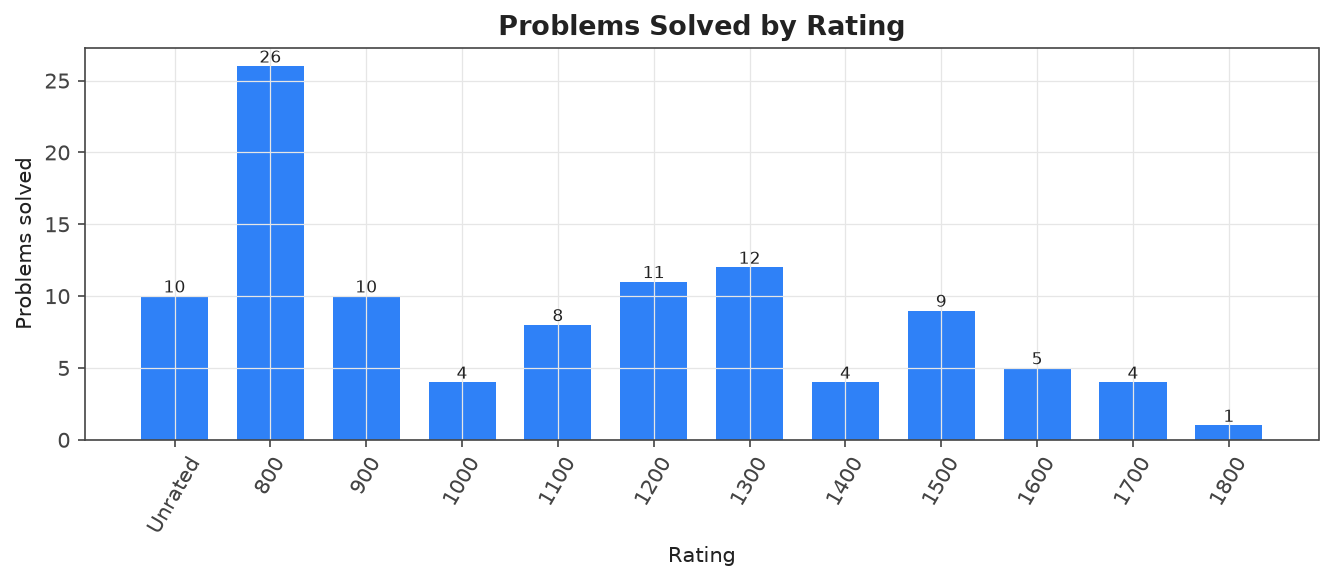
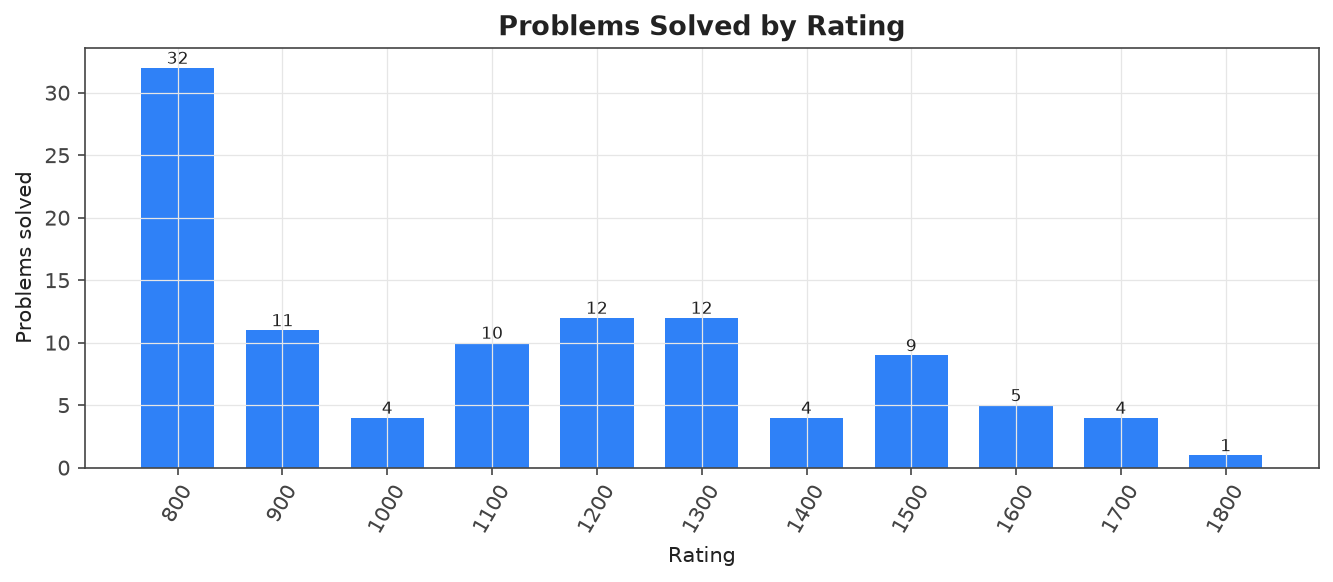
Sync: refresh analytics (rating/streak update, no new problems)

diff --git a/README.md b/README.md
@@ -37,18 +37,17 @@ Auto-generated archive of accepted Codeforces submissions for **[om_sharma_](htt
 
 | Rating | Count |
 |---|---|
-| 0800 | 26 |
-| 0900 | 10 |
+| 0800 | 32 |
+| 0900 | 11 |
 | 1000 | 4 |
-| 1100 | 8 |
-| 1200 | 11 |
+| 1100 | 10 |
+| 1200 | 12 |
 | 1300 | 12 |
 | 1400 | 4 |
 | 1500 | 9 |
 | 1600 | 5 |
 | 1700 | 4 |
 | 1800 | 1 |
-| Unrated | 10 |
 
 ### By tag
 
@@ -86,16 +85,6 @@ Auto-generated archive of accepted Codeforces submissions for **[om_sharma_](htt
 
 | # | Problem | Rating | Tags | Code | Link |
 |---|---|---|---|---|---|
-| 2244A | [Iskander and Drawings](problems/dp/Unrated_2244A-Iskander-and-Drawings) | ? | `dp`, `games`, `greedy`, `strings` | — | [CF](https://codeforces.com/contest/2244/problem/A) |
-| 2244B | [Nikita and Books](problems/greedy/Unrated_2244B-Nikita-and-Books) | ? | `greedy`, `math`, `sortings` | — | [CF](https://codeforces.com/contest/2244/problem/B) |
-| 2244C | [Stepan and Permutation](problems/constructive-algorithms/Unrated_2244C-Stepan-and-Permutation) | ? | `constructive algorithms`, `dfs and similar`, `dsu`, `greedy`, `math`, `number theory`, `sortings` | — | [CF](https://codeforces.com/contest/2244/problem/C) |
-| 2244D | [Yaroslav and Productivity](problems/constructive-algorithms/Unrated_2244D-Yaroslav-and-Productivity) | ? | `constructive algorithms`, `dp`, `greedy`, `math`, `number theory` | — | [CF](https://codeforces.com/contest/2244/problem/D) |
-| 2245A | [Who Watches the Watchpig?](problems/greedy/Unrated_2245A-Who-Watches-the-Watchpig) | ? | `greedy` | — | [CF](https://codeforces.com/contest/2245/problem/A) |
-| 2245B | [Delete and Concatenate](problems/greedy/Unrated_2245B-Delete-and-Concatenate) | ? | `greedy` | — | [CF](https://codeforces.com/contest/2245/problem/B) |
-| 2246A | [farmpiggie and Subset Sum](problems/constructive-algorithms/Unrated_2246A-farmpiggie-and-Subset-Sum) | ? | `constructive algorithms` | — | [CF](https://codeforces.com/contest/2246/problem/A) |
-| 2246B | [ezraft and Array](problems/constructive-algorithms/Unrated_2246B-ezraft-and-Array) | ? | `constructive algorithms`, `number theory` | — | [CF](https://codeforces.com/contest/2246/problem/B) |
-| 2247A | [Zero Sum](problems/constructive-algorithms/Unrated_2247A-Zero-Sum) | ? | `constructive algorithms`, `dp`, `number theory` | — | [CF](https://codeforces.com/contest/2247/problem/A) |
-| 2248A | [You Delete, I Delete](problems/greedy/Unrated_2248A-You-Delete-I-Delete) | ? | `greedy` | — | [CF](https://codeforces.com/contest/2248/problem/A) |
 | 4A | [Watermelon](problems/brute-force/0800_4A-Watermelon) | 800 | `brute force`, `math` | — | [CF](https://codeforces.com/contest/4/problem/A) |
 | 231A | [Team](problems/brute-force/0800_231A-Team) | 800 | `brute force`, `greedy` | — | [CF](https://codeforces.com/contest/231/problem/A) |
 | 263A | [Beautiful Matrix](problems/implementation/0800_263A-Beautiful-Matrix) | 800 | `implementation` | — | [CF](https://codeforces.com/contest/263/problem/A) |
@@ -122,6 +111,12 @@ Auto-generated archive of accepted Codeforces submissions for **[om_sharma_](htt
 | 2240A | [Another Popcount Problem](problems/greedy/0800_2240A-Another-Popcount-Problem) | 800 | `greedy` | — | [CF](https://codeforces.com/contest/2240/problem/A) |
 | 2241A | [Divide and Conquer](problems/greedy/0800_2241A-Divide-and-Conquer) | 800 | `greedy`, `math`, `number theory` | — | [CF](https://codeforces.com/contest/2241/problem/A) |
 | 2242A | [Bigrams](problems/sortings/0800_2242A-Bigrams) | 800 | `sortings`, `strings` | — | [CF](https://codeforces.com/contest/2242/problem/A) |
+| 2244A | [Iskander and Drawings](problems/dp/0800_2244A-Iskander-and-Drawings) | 800 | `dp`, `games`, `greedy`, `strings` | — | [CF](https://codeforces.com/contest/2244/problem/A) |
+| 2244B | [Nikita and Books](problems/greedy/0800_2244B-Nikita-and-Books) | 800 | `greedy`, `math`, `sortings` | — | [CF](https://codeforces.com/contest/2244/problem/B) |
+| 2245A | [Who Watches the Watchpig?](problems/greedy/0800_2245A-Who-Watches-the-Watchpig) | 800 | `greedy` | — | [CF](https://codeforces.com/contest/2245/problem/A) |
+| 2246A | [farmpiggie and Subset Sum](problems/constructive-algorithms/0800_2246A-farmpiggie-and-Subset-Sum) | 800 | `constructive algorithms` | — | [CF](https://codeforces.com/contest/2246/problem/A) |
+| 2247A | [Zero Sum](problems/constructive-algorithms/0800_2247A-Zero-Sum) | 800 | `constructive algorithms`, `dp`, `number theory` | — | [CF](https://codeforces.com/contest/2247/problem/A) |
+| 2248A | [You Delete, I Delete](problems/greedy/0800_2248A-You-Delete-I-Delete) | 800 | `greedy` | — | [CF](https://codeforces.com/contest/2248/problem/A) |
 | 337A | [Puzzles](problems/greedy/0900_337A-Puzzles) | 900 | `greedy` | — | [CF](https://codeforces.com/contest/337/problem/A) |
 | 1374B | [Multiply by 2, divide by 6](problems/math/0900_1374B-Multiply-by-2-divide-by-6) | 900 | `math` | — | [CF](https://codeforces.com/contest/1374/problem/B) |
 | 1537B | [Bad Boy](problems/constructive-algorithms/0900_1537B-Bad-Boy) | 900 | `constructive algorithms`, `greedy`, `math` | — | [CF](https://codeforces.com/contest/1537/problem/B) |
@@ -132,6 +127,7 @@ Auto-generated archive of accepted Codeforces submissions for **[om_sharma_](htt
 | 1904A | [Forked!](problems/brute-force/0900_1904A-Forked) | 900 | `brute force`, `implementation` | — | [CF](https://codeforces.com/contest/1904/problem/A) |
 | 2210B | [Simply Sitting on Chairs](problems/data-structures/0900_2210B-Simply-Sitting-on-Chairs) | 900 | `data structures`, `greedy` | — | [CF](https://codeforces.com/contest/2210/problem/B) |
 | 2238B | [Crimson Triples](problems/dp/0900_2238B-Crimson-Triples) | 900 | `dp`, `math`, `number theory` | — | [CF](https://codeforces.com/contest/2238/problem/B) |
+| 2246B | [ezraft and Array](problems/constructive-algorithms/0900_2246B-ezraft-and-Array) | 900 | `constructive algorithms`, `number theory` | — | [CF](https://codeforces.com/contest/2246/problem/B) |
 | 43A | [Football](problems/strings/1000_43A-Football) | 1000 | `strings` | — | [CF](https://codeforces.com/contest/43/problem/A) |
 | 2236C | [Omsk Programmers](problems/brute-force/1000_2236C-Omsk-Programmers) | 1000 | `brute force`, `greedy`, `math` | — | [CF](https://codeforces.com/contest/2236/problem/C) |
 | 2241C | [RemovevomeR](problems/greedy/1000_2241C-RemovevomeR) | 1000 | `greedy` | — | [CF](https://codeforces.com/contest/2241/problem/C) |
@@ -144,6 +140,8 @@ Auto-generated archive of accepted Codeforces submissions for **[om_sharma_](htt
 | 2240B | [AI Finds Nothing Here](problems/combinatorics/1100_2240B-AI-Finds-Nothing-Here) | 1100 | `combinatorics`, `math` | — | [CF](https://codeforces.com/contest/2240/problem/B) |
 | 2241D | [An Alternative Way](problems/dp/1100_2241D-An-Alternative-Way) | 1100 | `dp`, `greedy`, `math` | — | [CF](https://codeforces.com/contest/2241/problem/D) |
 | 2241B | [Good times Good times](problems/constructive-algorithms/1100_2241B-Good-times-Good-times) | 1100 | `constructive algorithms`, `dfs and similar`, `math` | — | [CF](https://codeforces.com/contest/2241/problem/B) |
+| 2244C | [Stepan and Permutation](problems/constructive-algorithms/1100_2244C-Stepan-and-Permutation) | 1100 | `constructive algorithms`, `dfs and similar`, `dsu`, `greedy`, `math`, `number theory`, `sortings` | — | [CF](https://codeforces.com/contest/2244/problem/C) |
+| 2245B | [Delete and Concatenate](problems/greedy/1100_2245B-Delete-and-Concatenate) | 1100 | `greedy` | — | [CF](https://codeforces.com/contest/2245/problem/B) |
 | 961B | [Lecture Sleep](problems/data-structures/1200_961B-Lecture-Sleep) | 1200 | `data structures`, `dp`, `implementation`, `two pointers` | — | [CF](https://codeforces.com/contest/961/problem/B) |
 | 1076B | [Divisor Subtraction](problems/implementation/1200_1076B-Divisor-Subtraction) | 1200 | `implementation`, `math`, `number theory` | — | [CF](https://codeforces.com/contest/1076/problem/B) |
 | 1272C | [Yet Another Broken Keyboard](problems/combinatorics/1200_1272C-Yet-Another-Broken-Keyboard) | 1200 | `combinatorics`, `dp`, `implementation` | — | [CF](https://codeforces.com/contest/1272/problem/C) |
@@ -155,6 +153,7 @@ Auto-generated archive of accepted Codeforces submissions for **[om_sharma_](htt
 | 2051D | [Counting Pairs](problems/binary-search/1200_2051D-Counting-Pairs) | 1200 | `binary search`, `sortings`, `two pointers` | — | [CF](https://codeforces.com/contest/2051/problem/D) |
 | 2053B | [Outstanding Impressionist](problems/binary-search/1200_2053B-Outstanding-Impressionist) | 1200 | `binary search`, `brute force`, `data structures`, `greedy` | — | [CF](https://codeforces.com/contest/2053/problem/B) |
 | 2109B | [Slice to Survive](problems/bitmasks/1200_2109B-Slice-to-Survive) | 1200 | `bitmasks`, `greedy`, `math` | — | [CF](https://codeforces.com/contest/2109/problem/B) |
+| 2244D | [Yaroslav and Productivity](problems/constructive-algorithms/1200_2244D-Yaroslav-and-Productivity) | 1200 | `constructive algorithms`, `dp`, `greedy`, `math`, `number theory` | — | [CF](https://codeforces.com/contest/2244/problem/D) |
 | 230B | [T-primes](problems/binary-search/1300_230B-T-primes) | 1300 | `binary search`, `implementation`, `math`, `number theory` | — | [CF](https://codeforces.com/contest/230/problem/B) |
 | 665C | [Simple Strings](problems/dp/1300_665C-Simple-Strings) | 1300 | `dp`, `greedy`, `strings` | — | [CF](https://codeforces.com/contest/665/problem/C) |
 | 1424G | [Years](problems/data-structures/1300_1424G-Years) | 1300 | `data structures`, `sortings` | — | [CF](https://codeforces.com/contest/1424/problem/G) |
